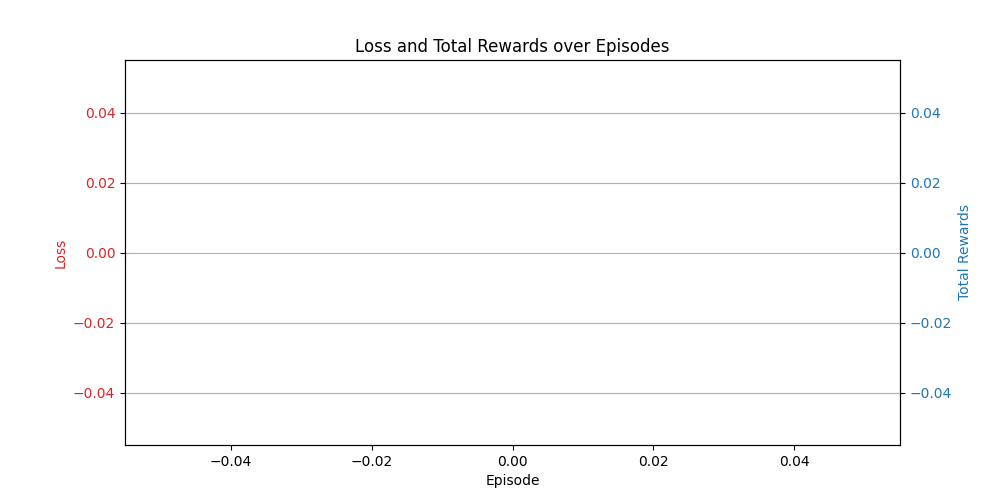
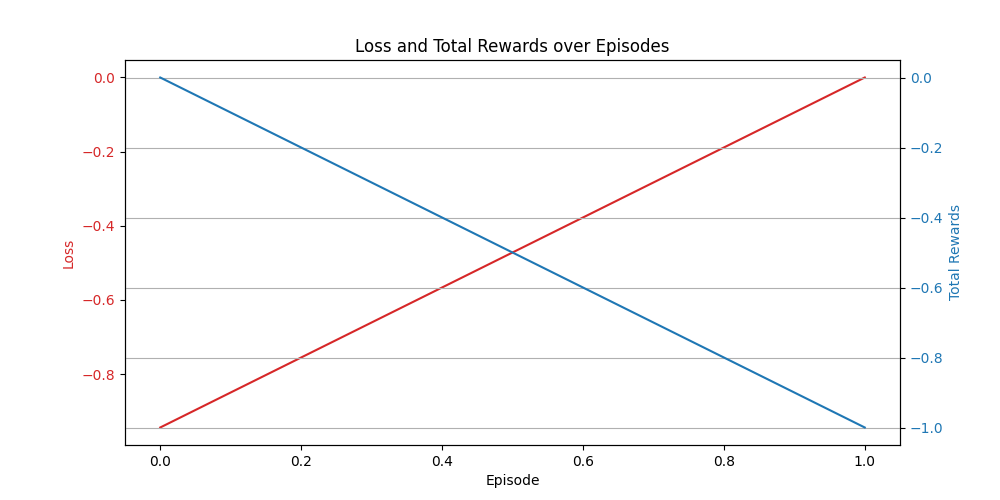
Policy Gradient Algorithms v1 Modified(remove target values as input) still overfitting

diff --git a/car_control_arduino_communication/pipeline/pipline_RL_env_agent.py b/car_control_arduino_communication/pipeline/pipline_RL_env_agent.py
@@ -52,10 +52,8 @@ class MyEnvironment(gym.Env):
         # Ensure the length to be max_length 
         self.action_sequence = deque(maxlen=max_length) # dimX for x number of patches
         self.value_sequence = deque(maxlen=max_length)
-        self.target_sequence = deque(maxlen=max_length)
         self.action_sequence.append(HOLD)
         self.value_sequence.append(self.current_value)
-        self.target_sequence.append(self.target_value)
 
 
     def step(self, action, rssi):
@@ -92,6 +90,9 @@ class MyEnvironment(gym.Env):
         else:
             pre_reward = rewardAboveTarget
 
+        cur_reward = abs(self.target_value - self.current_value)
+        pre_reward = abs(self.target_value - self.prev_value)
+
         reward = cur_reward - pre_reward
         print(f"step rewards is {reward}")
 
@@ -110,21 +111,18 @@ class MyEnvironment(gym.Env):
         # Format the State
         self.action_sequence.append(action)
         self.value_sequence.append(self.current_value)
-        self.target_sequence.clear()
-        self.target_sequence.extend([self.target_value] * len(self.value_sequence))
 
-        return np.array([self.action_sequence, self.value_sequence, self.target_sequence]), reward, done, {}
+        return np.array([self.action_sequence, self.value_sequence]), reward, done, {}
         # return np.array([action_count_list, median_RSSI]), reward, done, {}
 
     def reset(self):
         self.current_value = self.prev_value
         self.action_sequence.append(HOLD)
         self.value_sequence.append(self.current_value)
-        self.target_sequence.append(self.target_value)
-        return np.array([self.action_sequence, self.value_sequence, self.target_sequence])
+        return np.array([self.action_sequence, self.value_sequence])
 
     def get_state(self):
-        return np.array([self.action_sequence, self.value_sequence, self.target_sequence])
+        return np.array([self.action_sequence, self.value_sequence])
 
     def render(self, mode='human'):
         print(f'Target Value: {self.target_value}, Current Value: {self.current_value}, Actions: {list(self.action_sequence)}, Values: {list(self.value_sequence)}')

diff --git a/car_control_arduino_communication/pipeline/pipline_RL_control_patch_according_to_RSSI_target.py b/car_control_arduino_communication/pipeline/pipline_RL_control_patch_according_to_RSSI_target.py
@@ -131,7 +131,7 @@ rssi, data_id_buff = pm.get_rssi_from_wifi_board(sock, addr, data_id_buff)
 # Instantiate the environment and the agent
 # Assume the Target RSSI never change
 env = rl.MyEnvironment(target_value=-33, initial_value=rssi)
-input_dim = env.max_length * 3
+input_dim = env.max_length * 2
 output_dim = env.num_actions  # Number of actions
 agent = rl.PolicyGradientAgent(input_dim, output_dim)
 done = False
